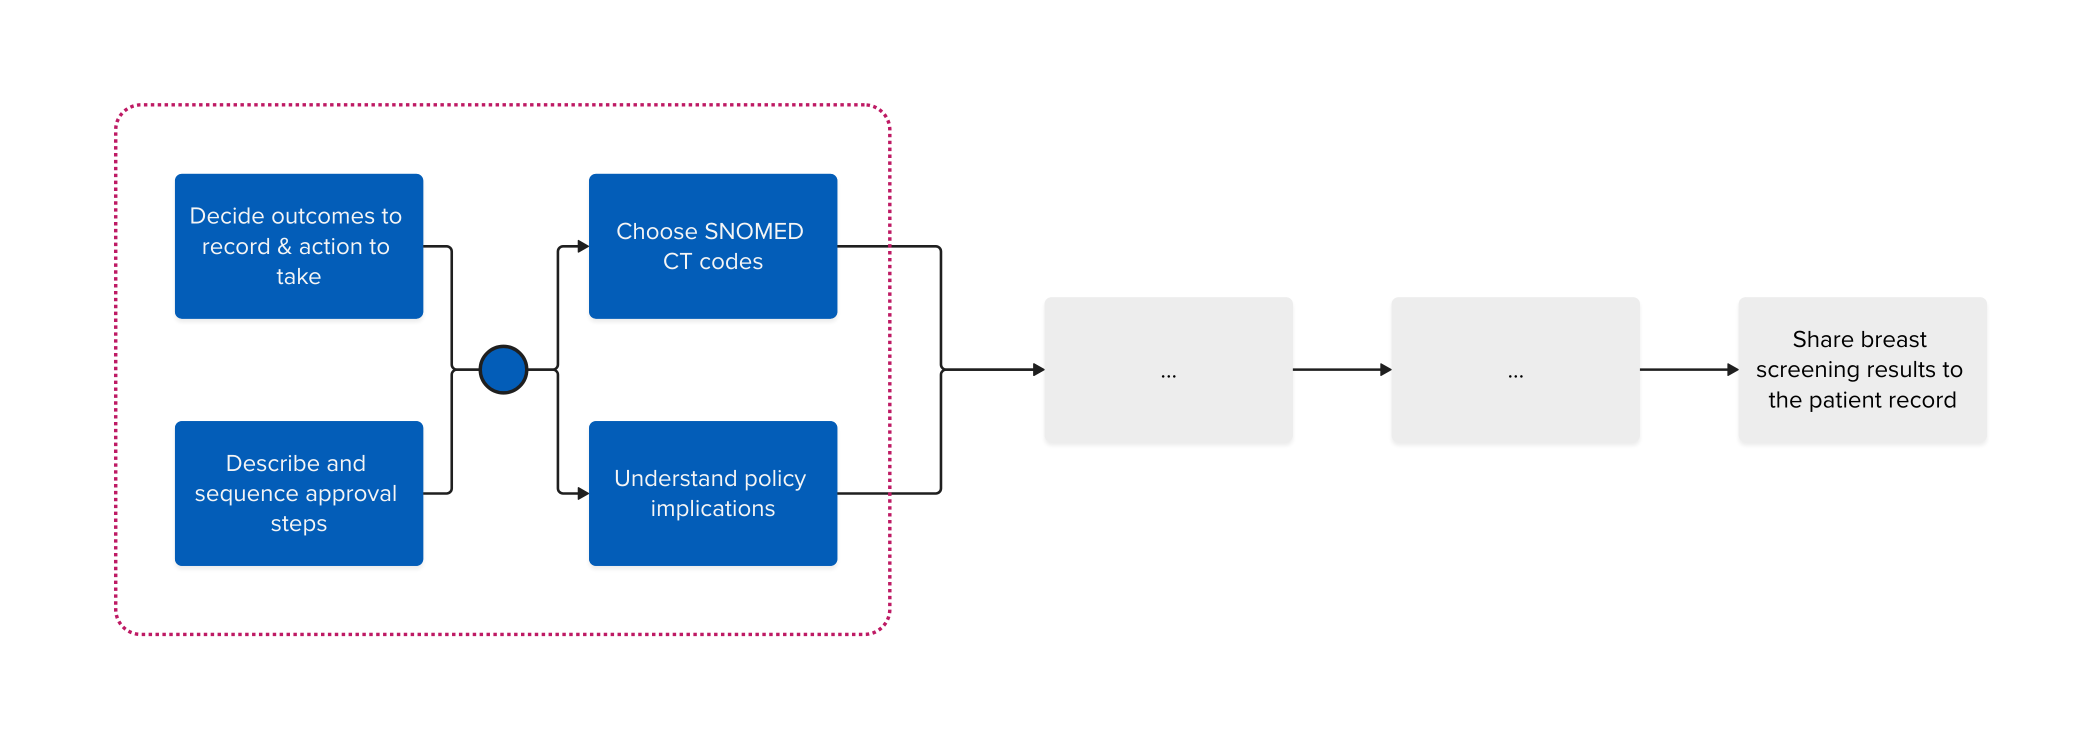
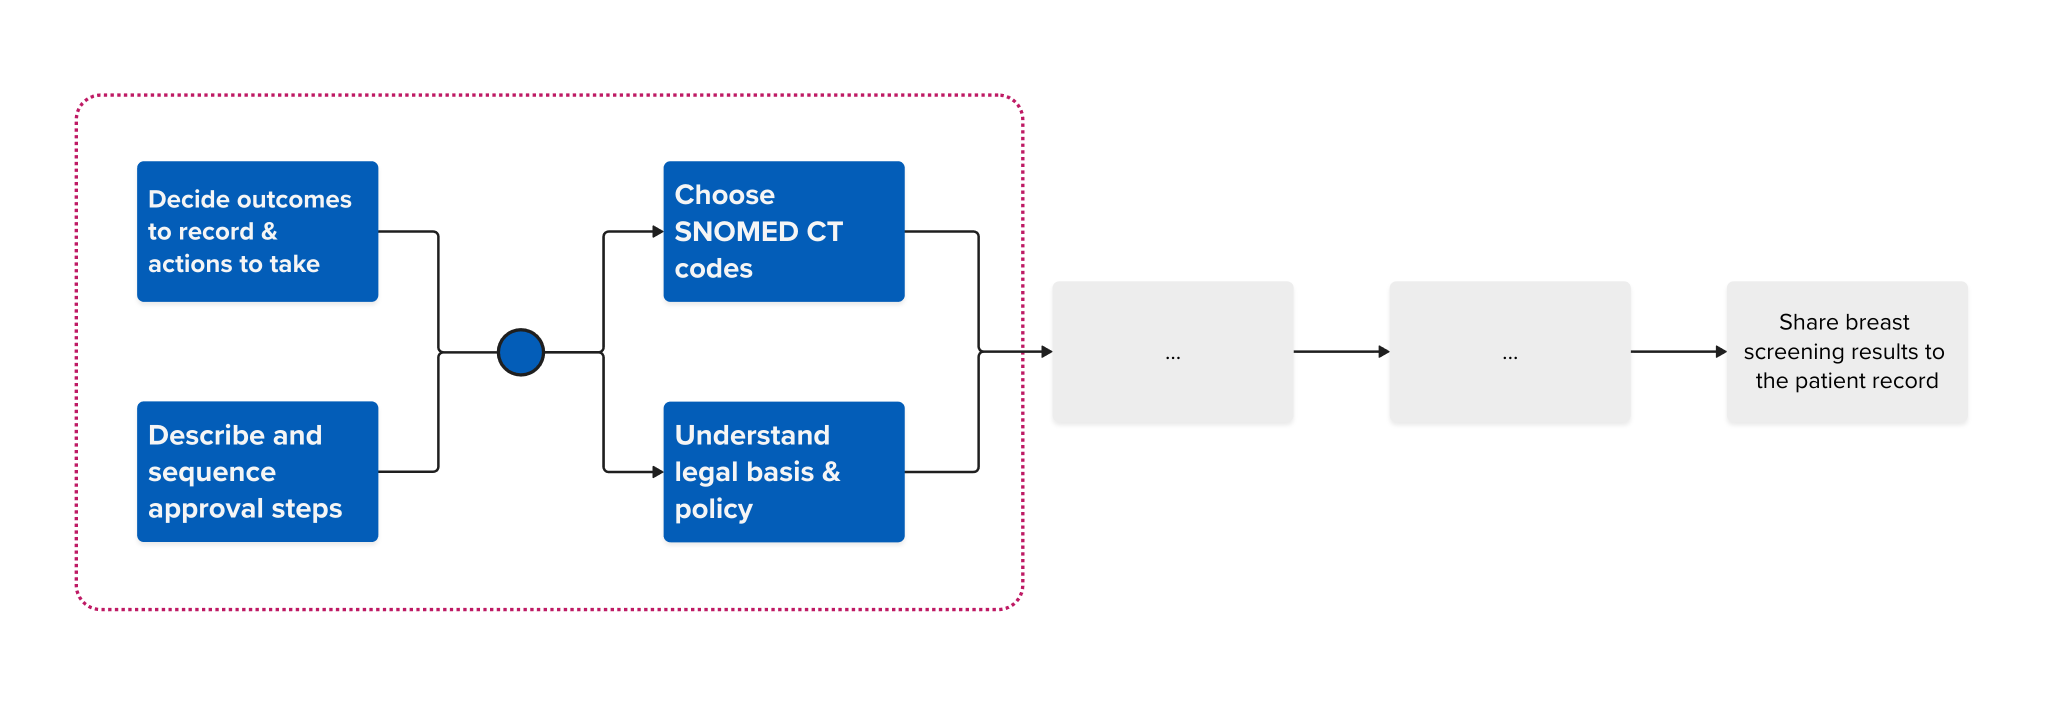
change title, change image

diff --git a/app/breast-screening-pathway/2026/04/before-integrating-with-GP-IT/index.md b/app/breast-screening-pathway/2026/04/before-integrating-with-GP-IT/index.md
@@ -1,5 +1,5 @@
 ---
-title: Before we can build an integration with GP patient records
+title: 4 things to do before integrating breast screening with GP records
 description: We want to send breast screening results directly to GP patient records. Here's what we need to work through first.
 date: 2026-04-16
 tags:
